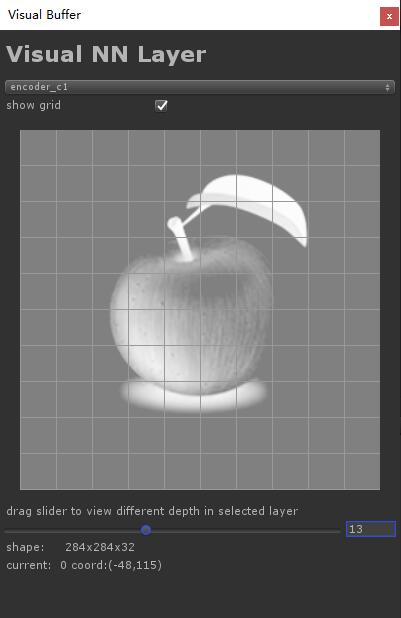
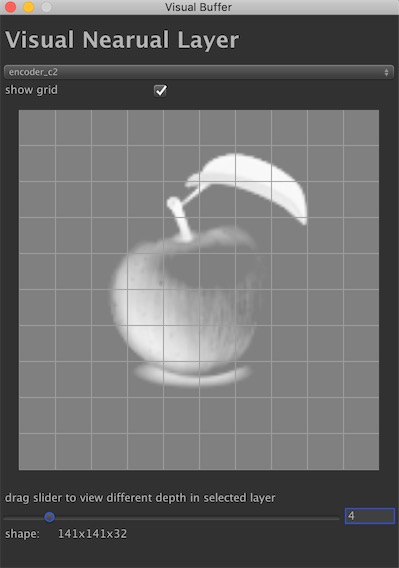
update

diff --git a/unity/Assets/Editor/VisualBufferTool.cs b/unity/Assets/Editor/VisualBufferTool.cs
@@ -59,7 +59,7 @@ public class VisualBufferTool : EditorWindow
         GUILayout.Space(10);
 
         GUILayout.BeginVertical();
-        GUILayout.Label("Visual NN Layer", boldLableStyle);
+        GUILayout.Label("Visual Nearual Layer", boldLableStyle);
         GUILayout.Space(8);
 
         select = EditorGUILayout.Popup(select, p_layer);

diff --git a/python/parse.py b/python/parse.py
@@ -52,7 +52,7 @@ parser.add_argument(
     '--ptcd',
     dest='path_to_content_dataset',
     type=str,
-    default='./data/micro_coco _dataset',
+    default='./data/micro_coco_dataset',
     help='Path to microsoft coco training dataset.')
 
 parser.add_argument(
